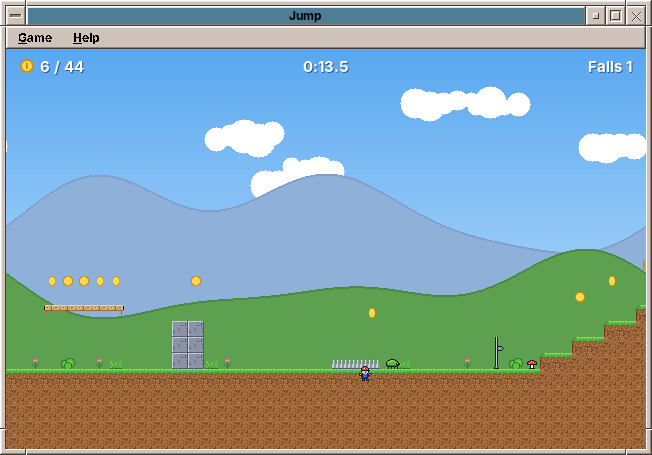
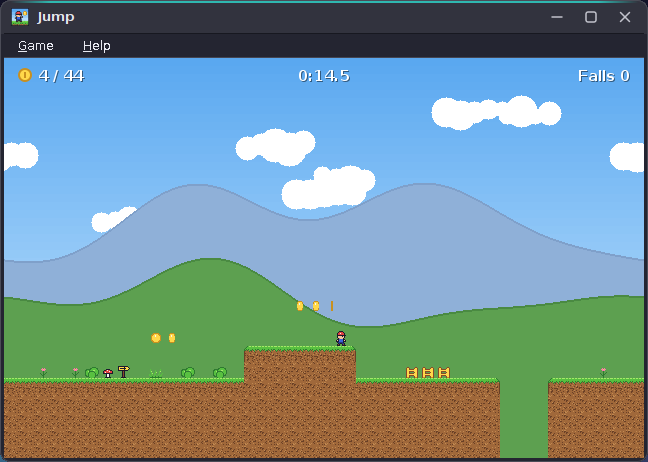
docs(readme): show the Horizon look in the screenshots
The screenshots in docs/screenshots (used by the README and the AppStream
metainfo) showed the classic CDE look. They are replaced by shots in the
Horizon look, Dark scheme; a README without a picture gets one.

Claude-Session: https://claude.ai/code/session_017Pd6NcKy4y87wY8jkALjpZ

diff --git a/README.md b/README.md
@@ -5,6 +5,8 @@
 ![License](https://img.shields.io/badge/license-EUPL--1.2-blue)
 ![Java](https://img.shields.io/badge/Java-25-orange)
 
+![Jump](docs/screenshots/amade-jump-game.png)
+
 ## Playing
 
 - **Space**, **Enter** or button **A** on a gamepad leads from the title to the choice of a level. **Left** and **right** choose, **Space** or **Enter** plays. A level opens when the one before it is finished.
